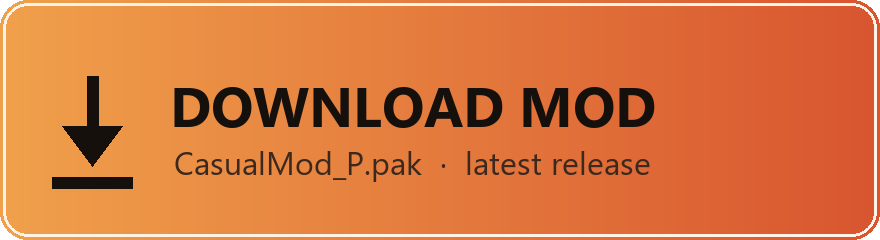
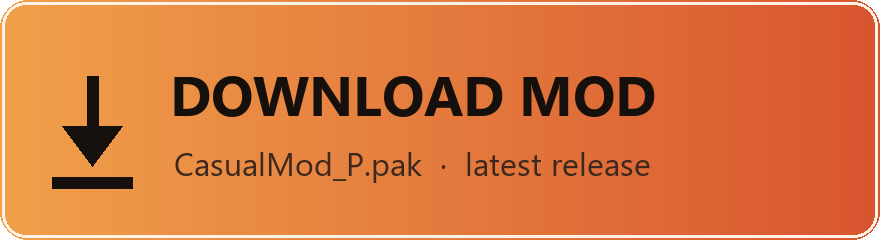
Add PNG artwork for Nexus, draw all images from one script

diff --git a/docs/make_images.py b/docs/make_images.py
@@ -1,0 +1,180 @@
+# Remnant: From the Ashes - Casual Mod | flexeykinDEV
+"""Draw the PNG artwork: README download button, plus banner and feature sheet for Nexus.
+
+    python docs/make_images.py
+
+The SVGs in this folder are the versions GitHub renders; these PNGs mirror them for sites that do
+not accept SVG.
+"""
+import os
+
+from PIL import Image, ImageDraw, ImageFont
+
+HERE = os.path.dirname(os.path.abspath(__file__))
+FONTS = os.path.join(os.environ.get("WINDIR", r"C:\Windows"), "Fonts")
+SCALE = 2  # everything is laid out in SVG units and drawn at 2x
+
+INK = (22, 16, 12)
+EMBER = ((240, 160, 75), (216, 85, 47))
+CARD = (27, 29, 36)
+CARD_EDGE = (44, 47, 55)
+BG = (21, 23, 28)
+WHITE = (244, 245, 247)
+GREY = (154, 160, 171)
+DIM = (113, 117, 127)
+WARN = (216, 130, 95)
+ACCENT = (240, 160, 75)
+
+
+def font(name, size):
+    return ImageFont.truetype(os.path.join(FONTS, name), int(size * SCALE))
+
+
+BOLD, SEMI, BOOK = "segoeuib.ttf", "seguisb.ttf", "segoeui.ttf"
+
+
+def px(*values):
+    return tuple(v * SCALE for v in values) if len(values) > 1 else values[0] * SCALE
+
+
+def gradient(size, colors, diagonal=False):
+    image = Image.new("RGB", size)
+    draw = ImageDraw.Draw(image)
+    width, height = size
+    steps = width + height if diagonal else width
+    for i in range(steps):
+        t = i / (steps - 1)
+        stops = len(colors) - 1
+        segment = min(int(t * stops), stops - 1)
+        local = t * stops - segment
+        color = tuple(round(a + (b - a) * local)
+                      for a, b in zip(colors[segment], colors[segment + 1]))
+        if diagonal:
+            draw.line([(i, 0), (0, i)], fill=color)
+        else:
+            draw.line([(i, 0), (i, height)], fill=color)
+    return image
+
+
+def rounded(image, radius):
+    mask = Image.new("L", image.size, 0)
+    ImageDraw.Draw(mask).rounded_rectangle([0, 0, image.size[0] - 1, image.size[1] - 1],
+                                           radius * SCALE, fill=255)
+    out = Image.new("RGBA", image.size, (0, 0, 0, 0))
+    out.paste(image, (0, 0), mask)
+    return out
+
+
+def ember_text(draw, xy, text, size, spacing=0, weight=BOLD, fill=ACCENT):
+    if not spacing:
+        draw.text(px(*xy), text, font=font(weight, size), fill=fill, anchor="ls")
+        return
+    x, y = px(*xy)
+    f = font(weight, size)
+    for ch in text:
+        draw.text((x, y), ch, font=f, fill=fill, anchor="ls")
+        x += draw.textlength(ch, font=f) + spacing * SCALE
+
+
+def draw_button():
+    size = px(440, 120)
+    button = rounded(gradient(size, EMBER), 14)
+    draw = ImageDraw.Draw(button)
+    draw.rounded_rectangle([2, 2, size[0] - 3, size[1] - 3], 12 * SCALE,
+                           outline=(255, 222, 190, 90), width=3)
+    x, y = px(46, 60)
+    draw.line([(x, y - 22 * SCALE), (x, y + 9 * SCALE)], fill=INK, width=6 * SCALE)
+    draw.polygon([(x - 15 * SCALE, y + 3 * SCALE), (x + 15 * SCALE, y + 3 * SCALE),
+                  (x, y + 23 * SCALE)], fill=INK)
+    draw.line([(x - 20 * SCALE, y + 31 * SCALE), (x + 20 * SCALE, y + 31 * SCALE)],
+              fill=INK, width=6 * SCALE)
+    draw.text(px(85, 58), "DOWNLOAD MOD", font=font(BOLD, 28), fill=INK, anchor="ls")
+    draw.text(px(87, 88), "CasualMod_P.pak  ·  latest release", font=font(BOOK, 16),
+              fill=(60, 40, 28), anchor="ls")
+    button.save(os.path.join(HERE, "download-button.png"))
+    return button.size
+
+
+def draw_banner():
+    size = px(1200, 300)
+    image = rounded(gradient(size, [(21, 23, 28), (27, 29, 36), (36, 26, 22)], diagonal=True), 18)
+    lines = Image.new("RGBA", size, (0, 0, 0, 0))  # PIL replaces pixels, so blend separately
+    line_draw = ImageDraw.Draw(lines)
+    for y in (80, 150, 220):
+        line_draw.line([(0, px(y)), (size[0], px(y))], fill=(255, 255, 255, 14), width=SCALE)
+    image = Image.alpha_composite(image, lines)
+    draw = ImageDraw.Draw(image)
+    draw.rounded_rectangle([0, 0, px(8), size[1]], px(4), fill=EMBER[0])
+
+    ember_text(draw, (70, 96), "REMNANT: FROM THE ASHES", 22, spacing=7, weight=BOOK, fill=(141, 144, 153))
+    draw.text(px(70, 180), "CASUAL MOD", font=font(BOLD, 82), fill=WHITE, anchor="ls")
+    draw.text(px(70, 226), "Loot x100 · easy fights · everything buffed", font=font(SEMI, 26),
+              fill=ACCENT, anchor="ls")
+    draw.text(px(70, 266), "by flexeykinDEV", font=font(BOOK, 19), fill=(111, 114, 123), anchor="ls")
+
+    cx, cy = px(980, 150)
+    draw.ellipse([cx - px(86), cy - px(86), cx + px(86), cy + px(86)], outline=CARD_EDGE, width=2 * SCALE)
+    draw.arc([cx - px(66), cy - px(66), cx + px(66), cy + px(66)], -35, 225, fill=EMBER[1], width=3 * SCALE)
+    draw.ellipse([cx - px(30), cy - px(30), cx + px(30), cy + px(30)], fill=(31, 34, 41), outline=(58, 62, 72))
+    draw.text((cx, cy + px(10)), "x100", font=font(BOLD, 26), fill=ACCENT, anchor="ms")
+    image.save(os.path.join(HERE, "banner.png"))
+    return image.size
+
+
+CARDS = [
+    (40, 130, 368, 160, "Loot", "x100",
+     ["scrap, iron, ammo, lumenite, simulacrum", "normal enemies always drop"]),
+    (416, 130, 368, 160, "Fights", "-50% / -60%",
+     ["enemy health and damage", "player: 250 HP, x2 stamina"]),
+    (792, 130, 368, 160, "Weapon mods (F)", "4x faster",
+     ["damage, shields, summons x2", "cooldowns halved"]),
+    (40, 310, 368, 160, "Traits", "x3, cap 60",
+     ["every trait, level-1 value and growth", "Elder Knowledge and Scavenger x10"]),
+    (416, 310, 368, 160, "Rings and amulets", "x2",
+     ["every positive bonus, 130 items", "downsides left untouched"]),
+    (792, 310, 368, 160, "Buffs and potions", "x10 time",
+     ["food lasts 10 hours, effects x2", "Dragon Heart: full heal, 10 charges"]),
+    (40, 490, 368, 150, "Weapons", "x2", ["damage, clip size and reserve ammo"]),
+    (416, 490, 368, 150, "Trading and crafting", "-90%", ["prices and upgrade costs, full refunds"]),
+    (792, 490, 368, 150, "Travel", "0 weight", ["no armor encumbrance, endless sprint"]),
+]
+
+
+def draw_features():
+    size = px(1200, 866)
+    image = Image.new("RGBA", size, BG + (255,))
+    draw = ImageDraw.Draw(image)
+    draw.rounded_rectangle([px(40), px(42), px(46), px(84)], px(3), fill=EMBER[0])
+    draw.text(px(62, 64), "What the mod changes", font=font(BOLD, 30), fill=WHITE, anchor="ls")
+    draw.text(px(62, 92), "322 game assets rebuilt from your own installation", font=font(BOOK, 18),
+              fill=DIM, anchor="ls")
+
+    for x, y, w, h, title, value, lines in CARDS:
+        draw.rounded_rectangle([px(x), px(y), px(x + w), px(y + h)], px(14), fill=CARD, outline=CARD_EDGE)
+        draw.text(px(x + 28, y + 42), title, font=font(SEMI, 21), fill=WHITE, anchor="ls")
+        draw.text(px(x + 28, y + 92), value, font=font(BOLD, 40), fill=ACCENT, anchor="ls")
+        for i, line in enumerate(lines):
+            draw.text(px(x + 28, y + 124 + i * 22), line, font=font(BOOK, 17), fill=GREY, anchor="ls")
+
+    highlight = rounded(gradient(px(1120, 150), [(36, 26, 22), (27, 29, 36)]), 14)
+    image.paste(highlight, px(40, 660), highlight)
+    draw.rounded_rectangle([px(40), px(660), px(1160), px(810)], px(14), outline=(74, 51, 40))
+    draw.rounded_rectangle([px(40), px(660), px(45), px(810)], px(2), fill=EMBER[0])
+    draw.text(px(72, 700), "Boss weapon mods, now on any weapon", font=font(SEMI, 21), fill=WHITE, anchor="ls")
+    for i, line in enumerate([
+            "12 new crafting recipes at McCabe — pay the same boss material the weapon costs",
+            "(Undying, Gravity Core, Hive Shot, Vampiric, Flamethrower, Skewer and more),",
+            "and the Ward 13 merchant keeps one of each in stock."]):
+        draw.text(px(72, 732 + i * 24), line, font=font(BOOK, 17), fill=GREY, anchor="ls")
+    draw.text(px(800, 706), "12 mods", font=font(BOLD, 40), fill=ACCENT, anchor="ls")
+    draw.text(px(800, 740), "installed for good: taking the", font=font(BOOK, 17), fill=WARN, anchor="ls")
+    draw.text(px(800, 762), "weapon off destroys the mod", font=font(BOOK, 17), fill=WARN, anchor="ls")
+    draw.text(px(40, 850), "flexeykinDEV", font=font(BOOK, 18), fill=DIM, anchor="ls")
+
+    image.convert("RGB").save(os.path.join(HERE, "features.png"))
+    return image.size
+
+
+for name, size in [("download-button.png", draw_button()), ("banner.png", draw_banner()),
+                   ("features.png", draw_features())]:
+    print(f"{name} {size[0]}x{size[1]}")

diff --git a/docs/nexus-page.md b/docs/nexus-page.md
@@ -2,6 +2,9 @@
 
 Paste-ready text for the Nexus Mods upload form. Not part of the build.
 
+Images: Nexus does not accept SVG, so upload `banner.png` (2400x600) and `features.png` (2400x1732)
+from this folder. Both are drawn by `make_images.py`, same as the README download button.
+
 ## Mod name
 
 ```
